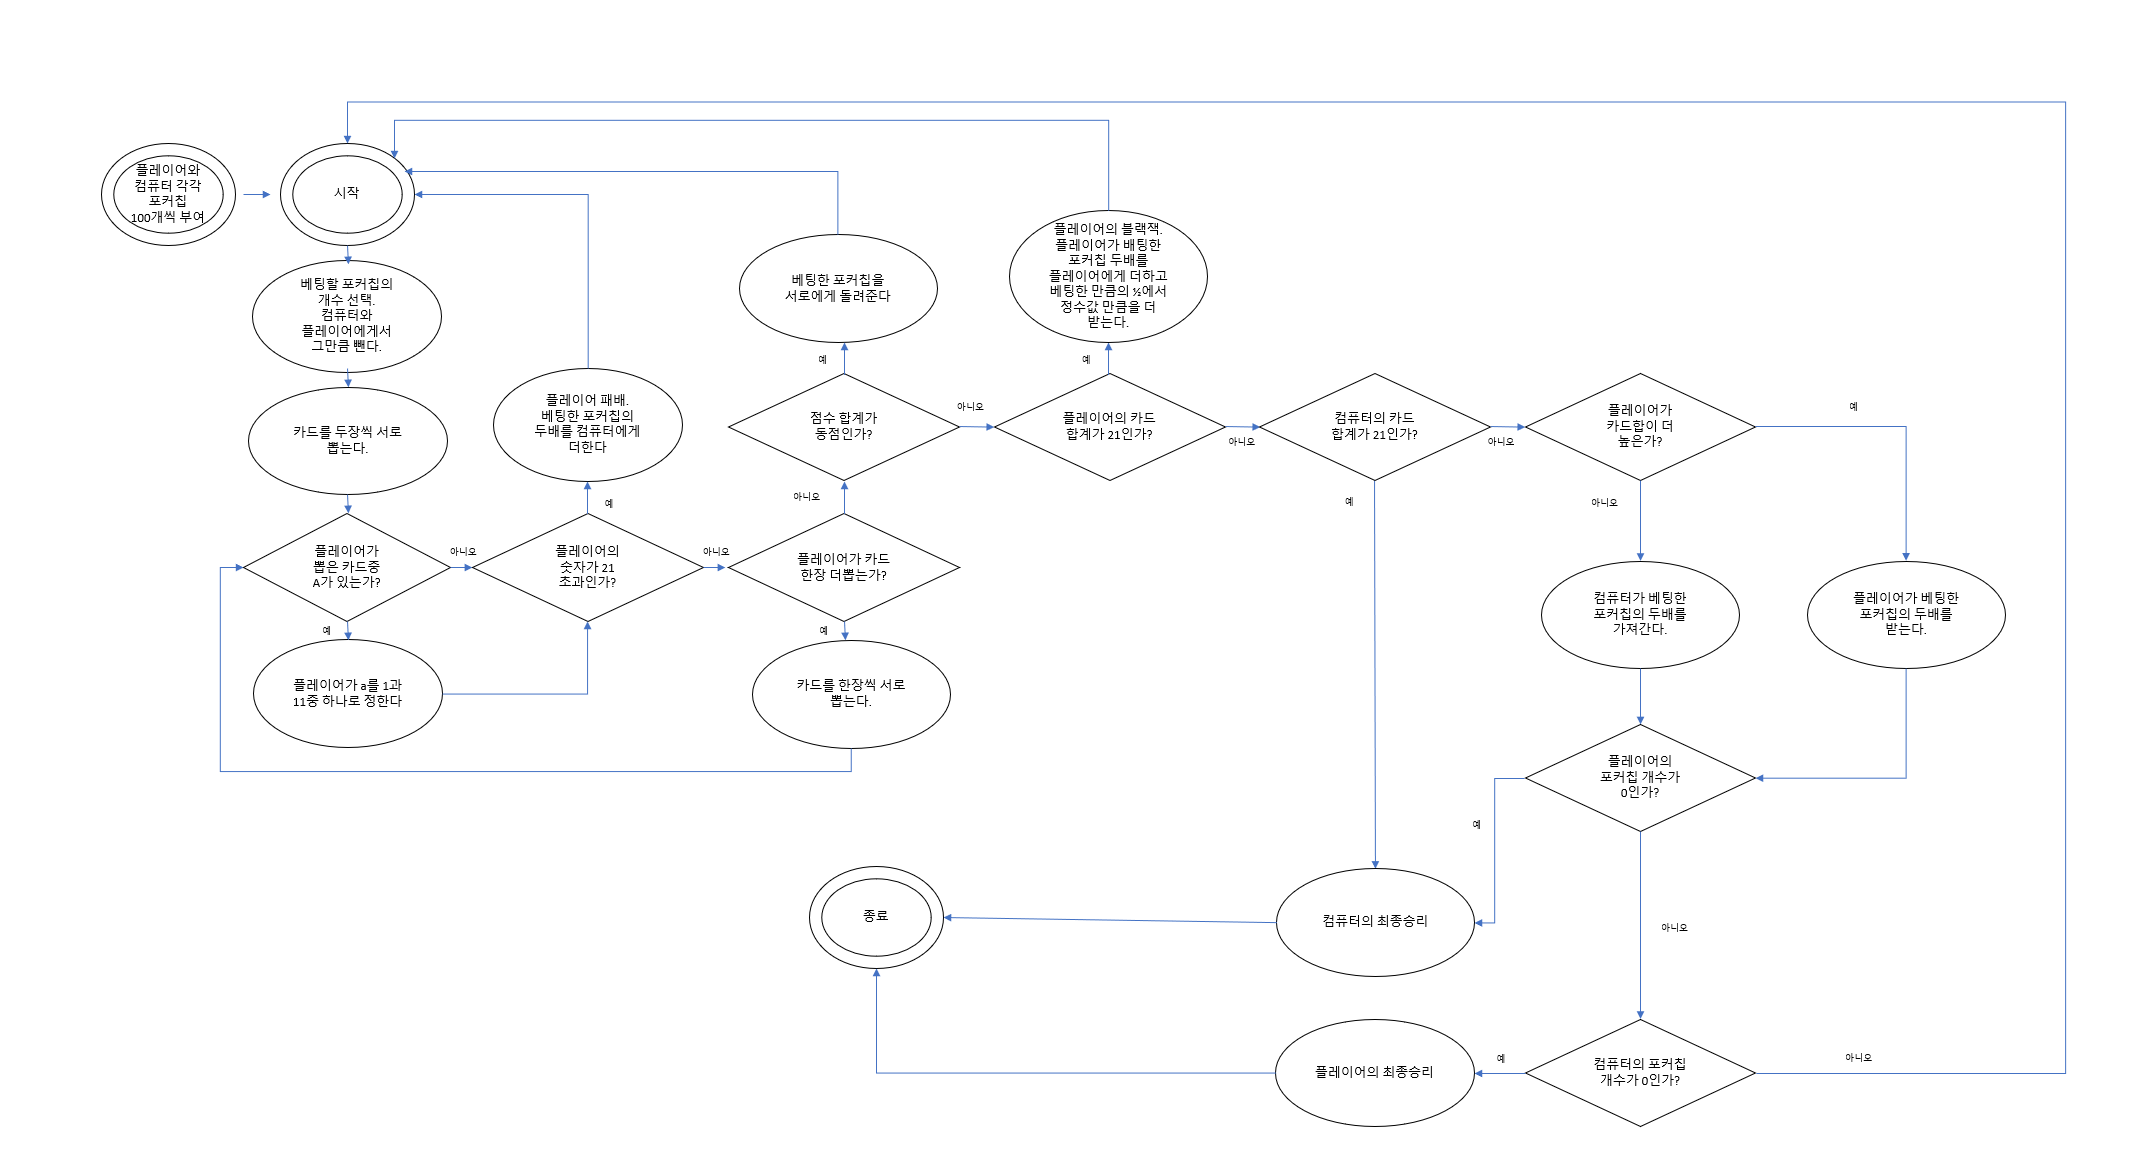
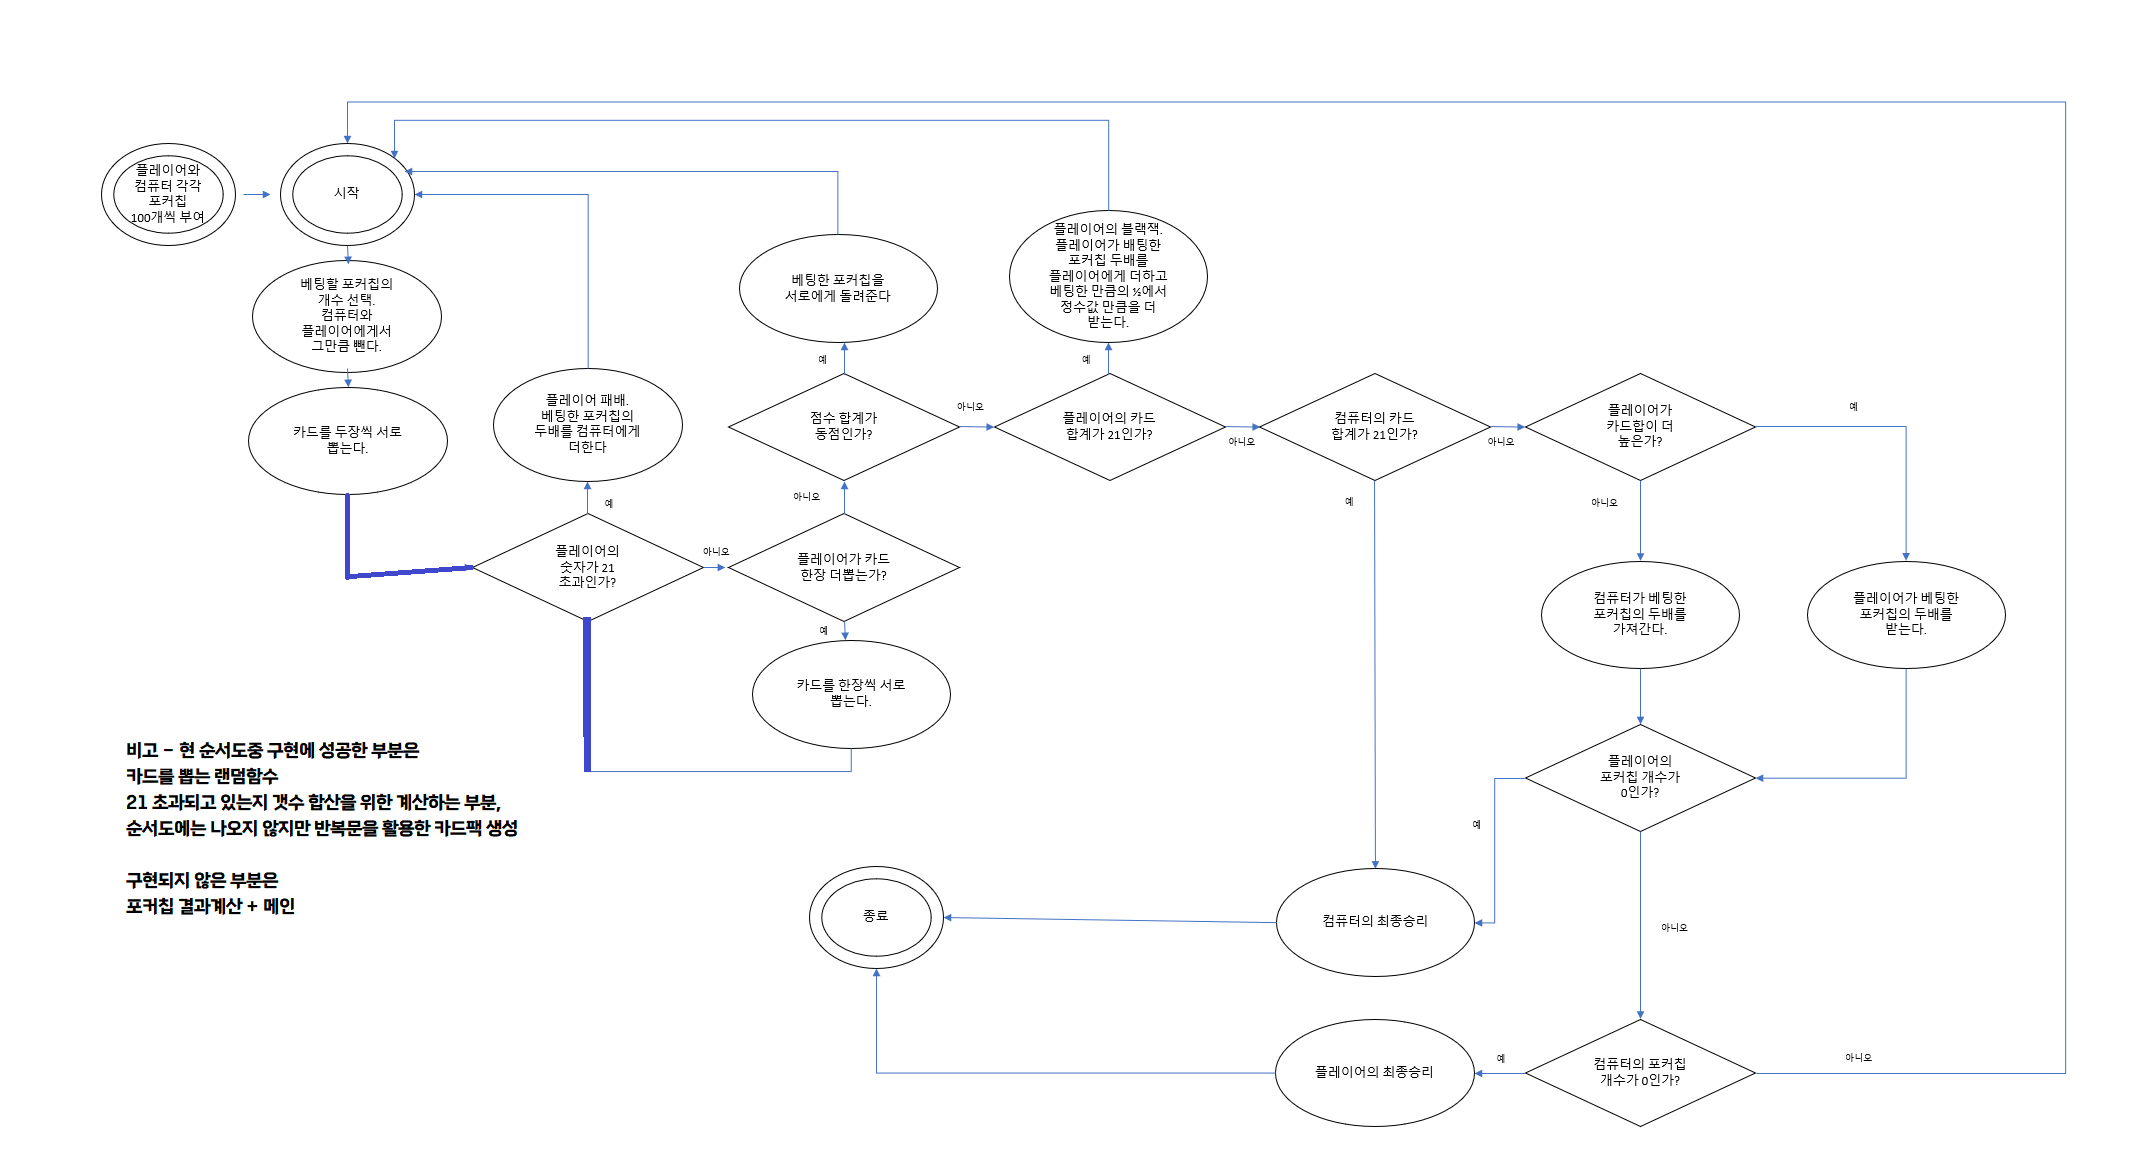
Add files via upload

Changed region(s): [[0.0617, 0.5938, 0.2467, 0.8125], [0.1234, 0.4375, 0.2159, 0.5625], [0.2467, 0.5312, 0.2776, 0.6562]]

diff --git a/blackjack.html b/blackjack.html
@@ -1,7 +1,10 @@
 <!DOCTYPE html>
 <html>
-    <button onclick="hit()" class="hit-btn">hit</button>
-    <button onclick="startGame()"class="start-btn">start</button>
+    
+    <button onclick="startGame(); cardCal()"class="start-btn">S T A R T</button>  
+    <button onclick="hit(); cardCal()" class="hit-btn">H I T</button>
+    <button onclick="stop()" class="stop-btn">S T O P</button>
+ 
 
 </html>
 
@@ -12,17 +15,28 @@
             width: 100px;
             height: 60px;
             font-size: 14px;
+            margin: 10px;
         }
         .hit-btn {
-            width: ;
-            height: ;
-            font-size: ;
+            width: 100px;
+            height: 60px;
+            font-size: 14px;
+            margin: 10px;
+        }
+        .stop-btn {
+            width: 100px;
+            height: 60px;
+            font-size: 14px;
+            margin: 10px;
         }
         .cards {
             display: flex;
             flex-wrap: wrap;
+            position : absolute;
         }
-
+        .button-space{
+            margin-right: 4px;
+        }
         .card {
             width: 100px;
             height: 150px;
@@ -34,15 +48,47 @@
             align-items: center;
             justify-content: center;
             font-size: 24px;
+            position : absolute;
         }
+
+        /* 철욱 - blindCard: 뒤집은 효과를 위한 카드 덮개 용도 / table : 딜러와 플레이어 테이블 모양*/
+        .blindCard { 
+            width: 100px;
+            height: 150px;
+            background-color: lightgray;
+            border: 1px solid gray;
+            border-radius: 5px;
+            margin: 5px;
+            display: flex;
+            align-items: center;
+            justify-content: center;
+            font-size: 24px;
+            position : absolute;
+        }
+        .Table{
+            height:170px;
+            width: 10000px;
+            border: 1px solid black;
+            position : relative;
+        }
+       
     </style>
 </head>
 
 <body>
-    <div class="cards">
+    <!-- <div class="cards"> // 카드 출력 테스트용
+    </div> 
+    철욱 - 테이블 만들면서 딜러와 플레이어 글씨 넣었음
+    -->
 
-    </div>
-
+    <br><br><font size = "5em" color = "red">딜러(COM)</font> 
+    <div class = "blindcard"></div>
+    <div class = "Table"></div>
+    <br><br>
+    <font size = "5em" color = "blue">플레이어(USER)</font>
+    <div class = "card"></div>
+    <div class = "Table"></div>
+    
     <script>
         var cardValues = ['A', '2', '3', '4', '5', '6', '7', '8', '9', '10', 'J', 'Q', 'K'];
         var suits =  ['♠', '♣', '♥', '♦'];
@@ -54,7 +100,8 @@
         var dealerNowCard = 0; //철욱 - 실시간 카드 집계. 나중에 카드 집계할때만 이거 띄워주면 됩니다
         var playerNowCard = 0; //철욱 - 실시간 플레이어 카드. 얘는 상시로 보이는거
         var cardNum = [];//철욱 - 카드에서 숫자만 따는 배열(계산용)
-
+        
+        
 
         for (var i = 0; i < suits.length; i++) {
             for (var j = 0; j < cardValues.length; j++) {
@@ -62,56 +109,76 @@
                 card.className = 'card';
                 card.innerHTML = suits[i] + cardValues[j] ; //철욱 -  카드 형태 수정 value 와 suits의 위치 바꿈. 카드 합산할때 앞에 기호만 때고 숫자들만 더하기 위함
                 cards.push(suits[i] + cardValues[j]); //정우(수정) + 철욱 - 위치교환(상동)
-                cardContainer.appendChild(card);
+                //cardContainer.appendChild(card); //철욱 - 이부분에서 걸려서 배열에 입력이 제대로 안되는거 같아서 제거
             }
         }
-        //정우 (startGame을 누르면 카드를 랜덤하게 뽑은 후 플레이어와 딜러에게 배정
+        // 정우 (startGame을 누르면 카드를 랜덤하게 뽑은 후 플레이어와 딜러에게 배정
         // hit를 누르면 플레이어가 카드를 또 받음 stay버튼은 나중에 구현 바람)
-       
+        
+        console.log(cards); // 철욱 - 카드 정상출력 테스트
+
     function cardDraw(){
         var drawNum = Math.floor(Math.random()*cardCount);
         var drawCard = cards[drawNum];
-        cards.splice(drawNum,1); // drawNum에 들어간 값을 하나 지운다
+        cards.splice(drawNum,1); //drawNum에 들어간 값을 하나 지운다
         cardCount--;
         console.log(drawCard);
         return drawCard;
-    }
+    } 
+    
+
+
 
     function startGame(){
         
         for(i = 0; i < 2; i++){
             dealer.push(cardDraw());
             player.push(cardDraw());
+            console.log("dealer - " + dealer);
+            console.log("player - " + player);
+            
         }
-
     }
+    
     function hit(){
+        dealer.push(cardDraw());
         player.push(cardDraw());
+        console.log("dealer - " + dealer);
+        console.log("player - " + player);
     }
+
     //철욱
-    function CardCal(){ //철욱 - 현재 카드들의 총합을 계산
+    function cardCal(){ //철욱 - 현재 카드들의 총합을 계산
         var cardD = 0; //철욱 - 임시로 쓰는 딜러 카드 집계용
         var cardP = 0; //철욱 - 임시로 쓰는 플레이어 카드 집계용
-        for (i = 0; i >= dealer.length; i++){
-            let searchCard = dealer.indexOf(i);
+        for (i = 0; i < dealer.length ; i++){
+            let searchCard = dealer[i];
             let splitCard = searchCard.substring(1);//철욱 - 앞에 기호만 잘라내고 1부터
-            if (splitCard = A)
+            if (splitCard == 'A'){
                 splitCard = 1;
-            else if(splitCard == J ||splitCard == Q||splitCard == K)
+            }else if(splitCard == 'J' ||splitCard == 'Q'||splitCard == 'K'){
                 splitCard = 10;
-            cardD += splitCard;
+            }
+            var splitCardNum = parseInt(splitCard);//철욱 - 문자형식을 실수로 변환
+            cardD += splitCardNum;
         }
-        for (i = 0; i >= player.length; i++){
-            let searchCard = player.indexOf(i);
-            let splitCard = searchCard.substring(1); // 철욱 - 앞에 기호만 잘라내고 1부터
-            if (splitCard = A) 
+        for (i = 0; i < player.length; i++){
+            var searchCard = player[i];
+            var splitCard = searchCard.substring(1); //철욱 - 앞에 기호만 잘라내고 1부터
+            if (splitCard == 'A'){ 
                 splitCard = 1;
-            else if (splitCard == J || splitCard == Q || splitCard == K) 
+            }else if (splitCard == 'J' || splitCard == 'Q' || splitCard == 'K') {
                 splitCard = 10;
-            cardP += splitCard;
+            
+            }
+            var splitCardNum = parseInt(splitCard);//철욱 - 문자형식을 실수로 변환
+            cardP += splitCardNum;
         }
         var dealerNowCard = cardD; //철욱 - 임시로 계산한 값을 전역 변수(실시간 카드값)에 갱신
         var playerNowCard = cardP;
+
+        console.log("현재 딜러 총합 "+ dealerNowCard);
+        console.log("현재 플레이어 총합 "+ playerNowCard);
     }
 
     
